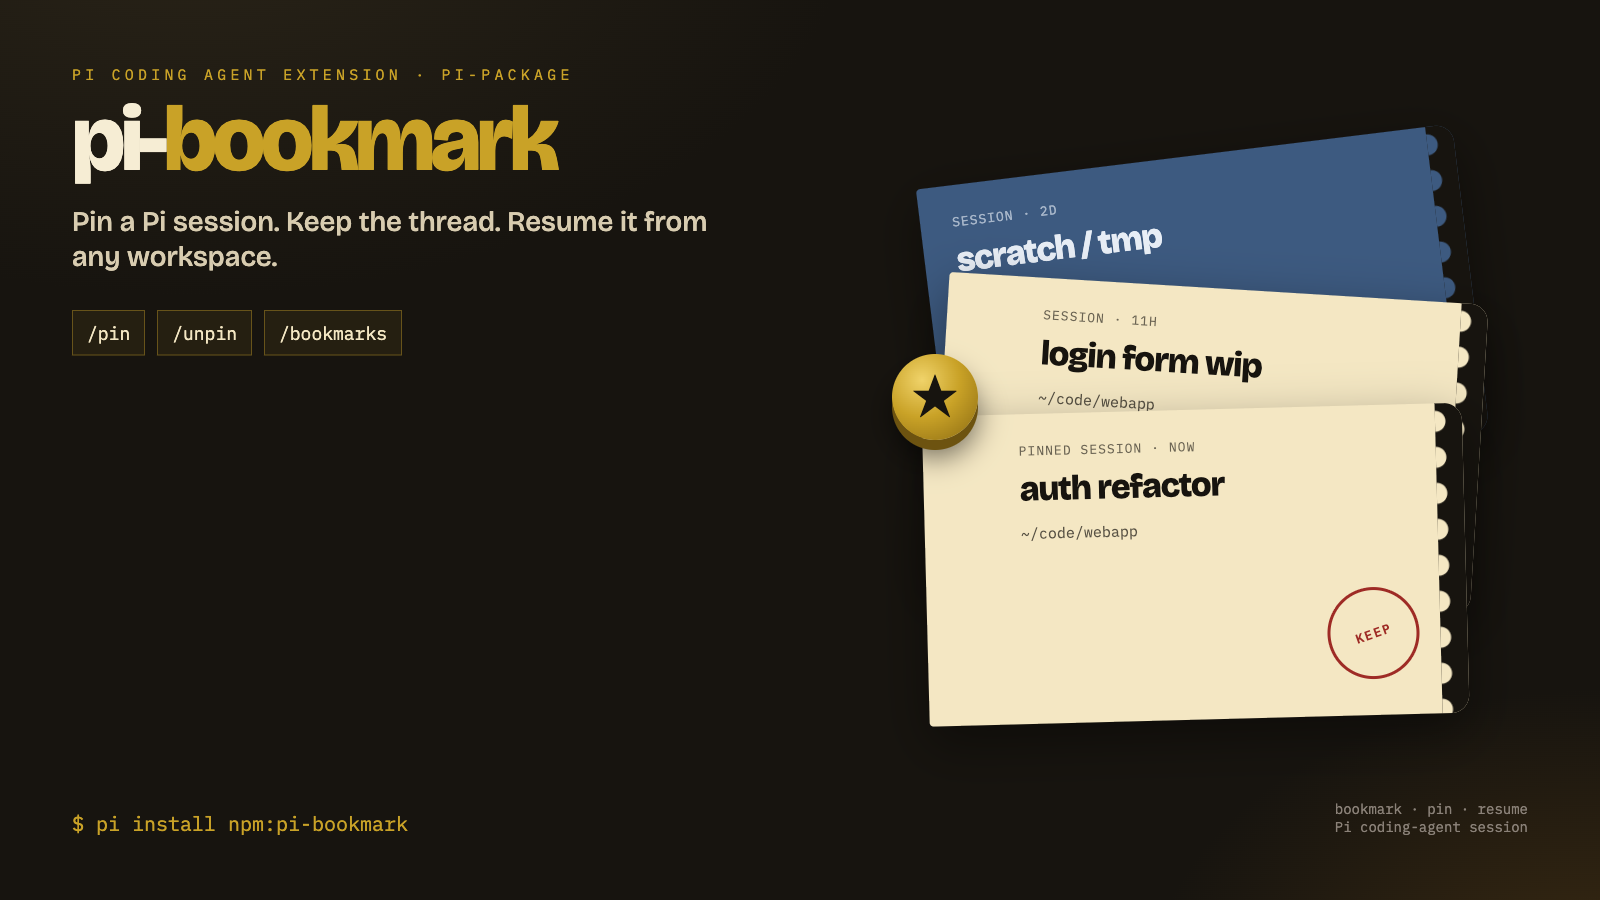
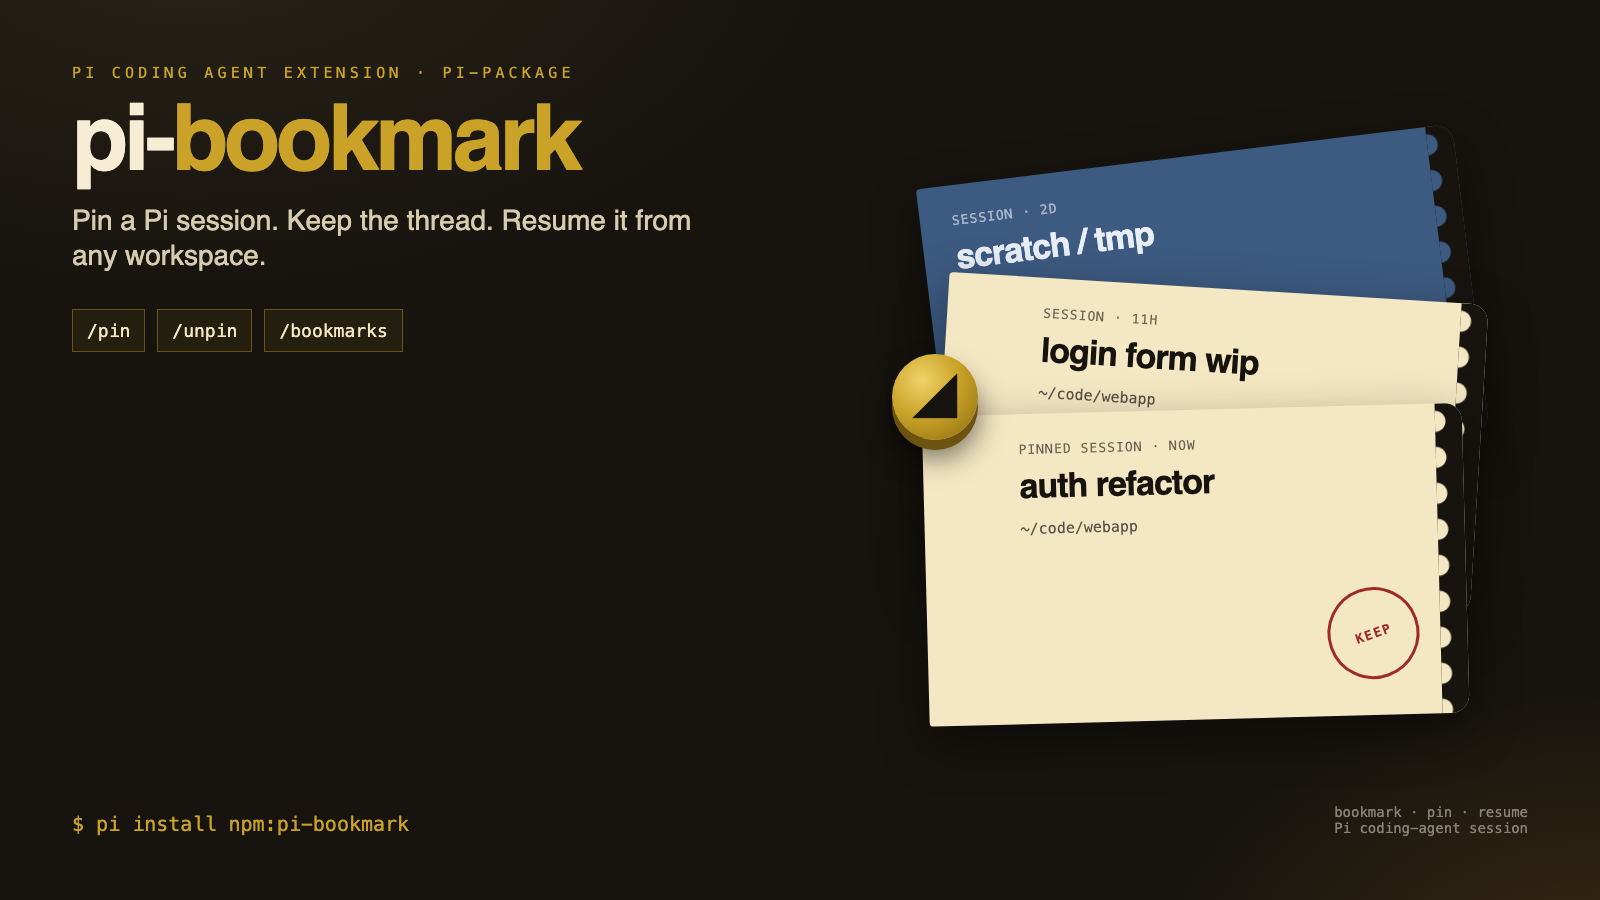
0.1.2: replace star with solid right triangle (◢), right-aligned under model name
- footer status: ◢ pushed to far right via cursor-forward escape (no label)
- picker current-session marker: ◢, missing marker: ×
- no emoji anywhere; cover pin and demo frames use the same triangle

diff --git a/assets/src/demo.html b/assets/src/demo.html
@@ -83,11 +83,11 @@
       { chat: `<span class="dim">workspace ~/code/webapp</span>`, prompt: `> <span class="caret"></span>`, picker: "", hint: "pin the session you want to keep", status: "" },
       { chat: `<span class="dim">workspace ~/code/webapp</span>`, prompt: `> /p<span class="caret"></span>`, picker: "", hint: "slash command", status: "" },
       { chat: `<span class="dim">workspace ~/code/webapp</span>`, prompt: `> /pin auth refactor<span class="caret"></span>`, picker: "", hint: "pin current Pi session", status: "" },
-      { chat: `<span class="dim">workspace ~/code/webapp</span><br><span class="ok">Pinned: auth refactor</span>`, prompt: `> <span class="caret"></span>`, picker: "", hint: "session is now in the global pin list", status: `<span class="star">★</span> auth refactor` },
-      { chat: `<span class="dim">workspace ~/code/webapp</span><br><span class="ok">Pinned: auth refactor</span>`, prompt: `> /bookmarks<span class="caret"></span>`, picker: "", hint: "open the /resume-style picker", status: `<span class="star">★</span> auth refactor` },
-      { chat: `<span class="dim">workspace ~/code/webapp</span><br><span class="ok">Pinned: auth refactor</span>`, prompt: "", picker: "here", hint: "same chrome as /resume", status: `<span class="star">★</span> auth refactor` },
-      { chat: `<span class="dim">workspace ~/code/webapp</span><br><span class="ok">Pinned: auth refactor</span>`, prompt: "", picker: "sel1", hint: "enter opens · tab scope · ctrl+d unpin", status: `<span class="star">★</span> auth refactor` },
-      { chat: `<span class="dim">workspace ~/code/webapp</span><br><span class="ok">Pinned: auth refactor</span><br><span class="user">Opened auth refactor</span>`, prompt: `> <span class="caret"></span>`, picker: "", hint: "resumed from any workspace", status: `<span class="star">★</span> auth refactor` },
+      { chat: `<span class="dim">workspace ~/code/webapp</span><br><span class="ok">Pinned: auth refactor</span>`, prompt: `> <span class="caret"></span>`, picker: "", hint: "session is now in the global pin list", status: `<span class="star">◢</span>` },
+      { chat: `<span class="dim">workspace ~/code/webapp</span><br><span class="ok">Pinned: auth refactor</span>`, prompt: `> /bookmarks<span class="caret"></span>`, picker: "", hint: "open the /resume-style picker", status: `<span class="star">◢</span>` },
+      { chat: `<span class="dim">workspace ~/code/webapp</span><br><span class="ok">Pinned: auth refactor</span>`, prompt: "", picker: "here", hint: "same chrome as /resume", status: `<span class="star">◢</span>` },
+      { chat: `<span class="dim">workspace ~/code/webapp</span><br><span class="ok">Pinned: auth refactor</span>`, prompt: "", picker: "sel1", hint: "enter opens · tab scope · ctrl+d unpin", status: `<span class="star">◢</span>` },
+      { chat: `<span class="dim">workspace ~/code/webapp</span><br><span class="ok">Pinned: auth refactor</span><br><span class="user">Opened auth refactor</span>`, prompt: `> <span class="caret"></span>`, picker: "", hint: "resumed from any workspace", status: `<span class="star">◢</span>` },
     ];
 
     function pickerHtml(kind) {
@@ -96,7 +96,7 @@
       return `<div class="rule">────────────────────────────────────────</div>
 <div><span class="sel">Bookmarks (All)</span>  <span class="dim">2</span>     ○ Current Folder | <span class="sel">◉ All</span></div>
 <br>
-<div class="row">${a ? '<span class="sel">▸ ★ auth refactor</span>' : '  ★ auth refactor'}   <span class="dim">now   ~/code/webapp</span></div>
+<div class="row">${a ? '<span class="sel">▸ ◢ auth refactor</span>' : '  ◢ auth refactor'}   <span class="dim">now   ~/code/webapp</span></div>
 <div class="row">${a ? '    login form wip' : '<span class="sel">▸   login form wip</span>'}   <span class="dim">11h   ~/code/webapp</span></div>
 <br>
 <div class="dim">type to filter · tab scope · enter open · esc</div>
@@ -115,7 +115,9 @@
       document.title = "frame-" + i;
       return frames.length;
     };
-    setFrame(0);
+    // frame 0 by default, frame=N via ?frame=N for headless captures
+    const frameParam = new URLSearchParams(location.search).get('frame');
+    setFrame(frameParam ? Number(frameParam) : 0);
   </script>
 </body>
 </html>

diff --git a/extensions/index.ts b/extensions/index.ts
@@ -2,7 +2,7 @@ import { existsSync } from "node:fs";
 import { StringEnum } from "@earendil-works/pi-ai";
 import type { ExtensionAPI, ExtensionCommandContext, ExtensionContext } from "@earendil-works/pi-coding-agent";
 import { Type } from "typebox";
-import { bookmarkTitle, collapse, firstUserPreview } from "./format.js";
+import { bookmarkTitle, firstUserPreview } from "./format.js";
 import { BookmarkSelector, type BookmarkPickerResult } from "./overlay.js";
 import { BookmarkStore, type Bookmark } from "./store.js";
 
@@ -36,8 +36,7 @@ export default function (pi: ExtensionAPI) {
 			ctx.ui.setStatus(STATUS_ID, undefined);
 			return;
 		}
-		const label = collapse(bookmarkTitle(bookmark), 32);
-		ctx.ui.setStatus(STATUS_ID, `${ctx.ui.theme.fg("accent", "★")} ${ctx.ui.theme.fg("dim", label)}`);
+		ctx.ui.setStatus(STATUS_ID, `\u001b[999C${ctx.ui.theme.fg("accent", "◢")}`);
 	};
 
 	const silentRefresh = (ctx: ExtensionContext): void => {

diff --git a/extensions/overlay.ts b/extensions/overlay.ts
@@ -98,7 +98,7 @@ export class BookmarkSelector extends Container {
 		return this.scoped().map((bookmark) => {
 			const missing = !existsSync(bookmark.path);
 			const current = bookmark.id === this.currentId;
-			const mark = missing ? "✕ " : current ? "★ " : "";
+			const mark = missing ? "× " : current ? "◢ " : "";
 			const where = missing ? "missing" : shortPath(bookmark.cwd);
 			return {
 				value: bookmark.id,

diff --git a/assets/src/cover.html b/assets/src/cover.html
@@ -195,7 +195,7 @@
         <div class="path">~/code/webapp</div>
         <div class="stamp">keep</div>
       </div>
-      <div class="pin">★</div>
+      <div class="pin">◢</div>
     </div>
     <div class="geo">bookmark · pin · resume<br/>Pi coding-agent session</div>
   </div>

diff --git a/README.md b/README.md
@@ -65,7 +65,7 @@ The model can call the `pin_session` tool (`add` / `remove` / `list`) when you a
 | `ctrl+r` | edit note |
 | `esc` | close |
 
-Current session is marked `★`. Missing files are marked `✕` and cannot be opened. A footer status `★ …` shows when the session you are in is pinned.
+Current session is marked `◢`. Missing files are marked `×` and cannot be opened. A solid `◢` appears at the far right of the footer, under the model name, when the session you are in is pinned.
 
 ## Storage
 
